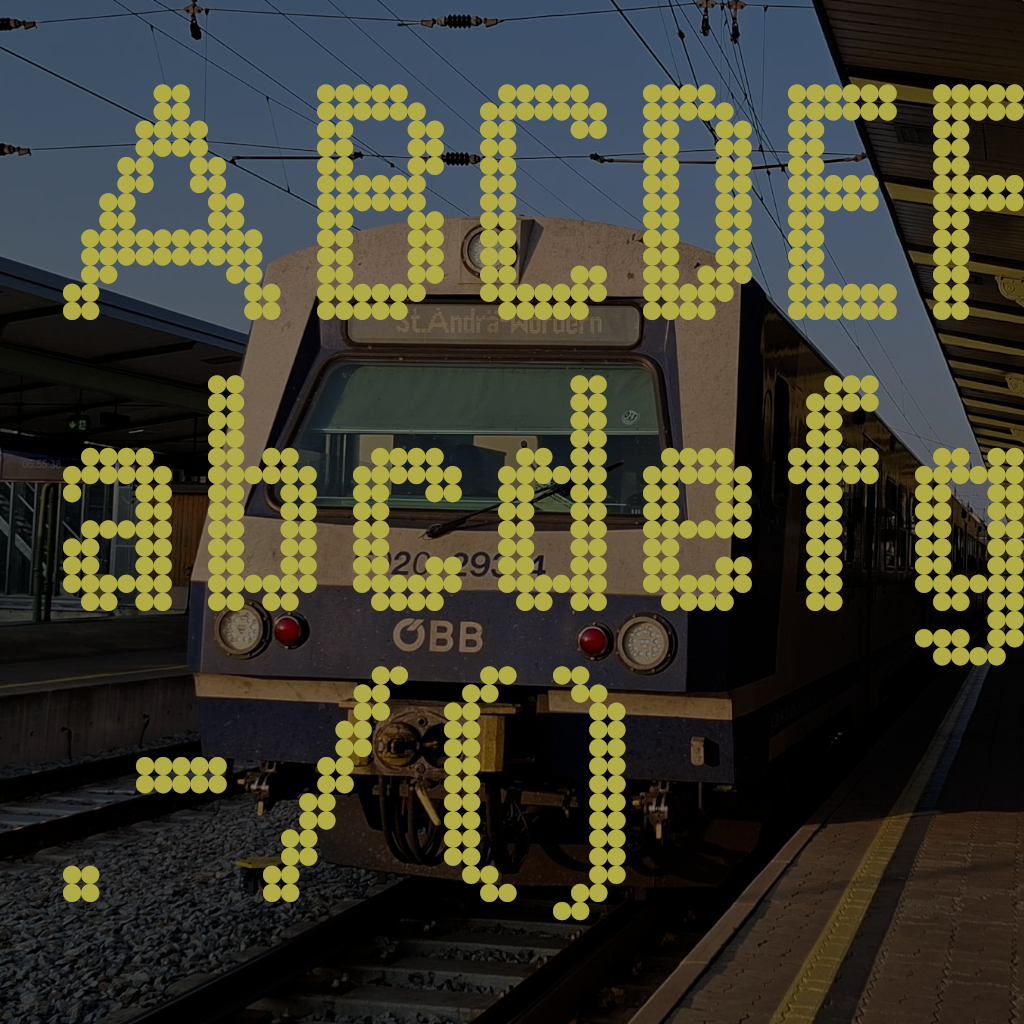
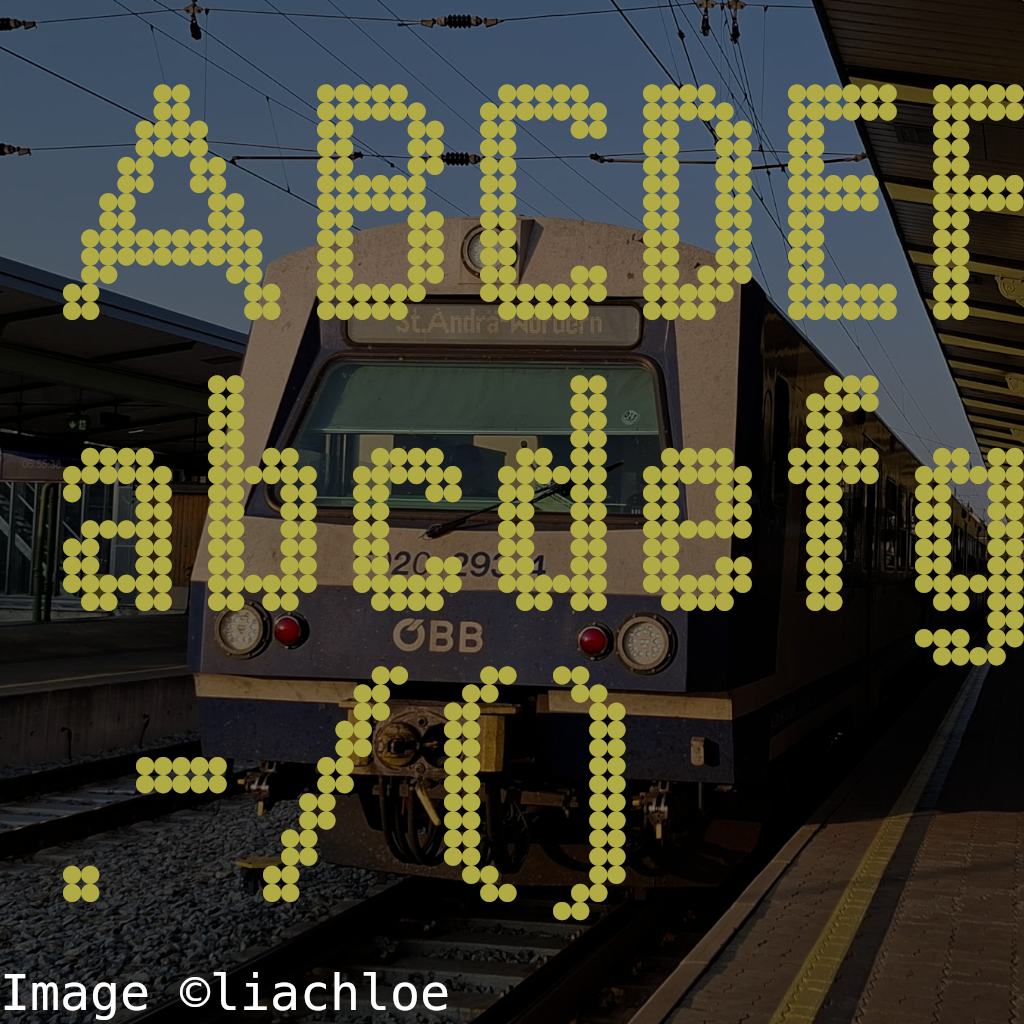
Added thumbnails

Changed region(s): [[0.1875, 0.9375, 0.4375, 1.0], [0.0, 0.9375, 0.1562, 1.0]]

diff --git a/README.md b/README.md
@@ -1,26 +1,22 @@
 # railfonts
 
-> by liachloe
-
 This font pack replicates the font of various displays on trains operated by the Austrian Federal Railways (ÖBB).
-
 **[Click here to view credits](./CREDITS.md)**
 
 ## List of fonts in the repository:
 
 - **ÖBB class 4020 outside destination displays**
+![](./thumbs/oebb_4020_classic.png)
 (mostly fully recreated; some uncommon letters are missing. There is a smaller version for longer destination names, but only the normal full-size font is included in the repository)
 
 - **ÖBB regional-train doubledecker (DoSto) inside matrix displays**
+![](./thumbs/oebb_dosto_old_classic.png)
 (mostly fully recreated; some uncommon letters are missing. Some modernized carriages feature infotainment displays instead of the matrix ones, the fonts on those aren't included)
 
 - **ÖBB regional-train doubledecker (DoSto) inside matrix displays** (slim)
 (work in progress; same as the normal DoSto font, but the slim variant, which is used for displaying longer text)
-
 - **ÖBB regional-train Bombardier Talent (class 4023/4024/4124) inside matrix displays**
 (work in progress)
-
-Some letters may have some pixel errors in real life, which will be replicated 1 to 1 with these fonts.
 
 This font pack is licensed under CC BY-NC-SA, which means you may not use this font commercially without my explicit permission, you may include a reference to this github repository, and modifications must stay under the same license. For more details, see [CREDITS.md](./CREDITS.md)
 
